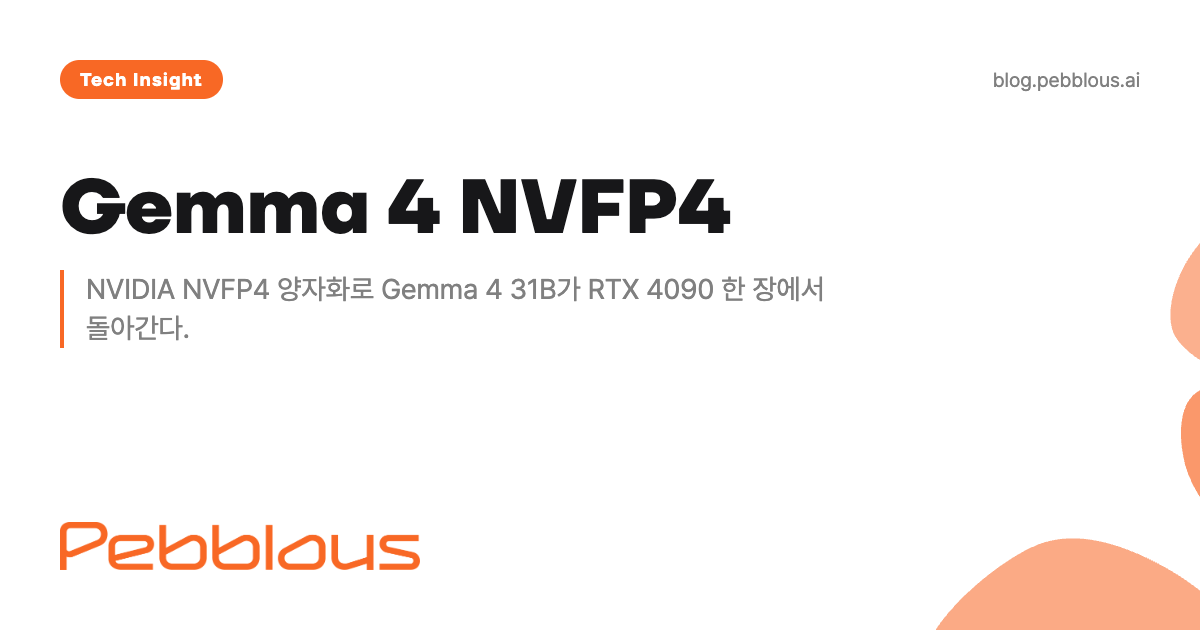
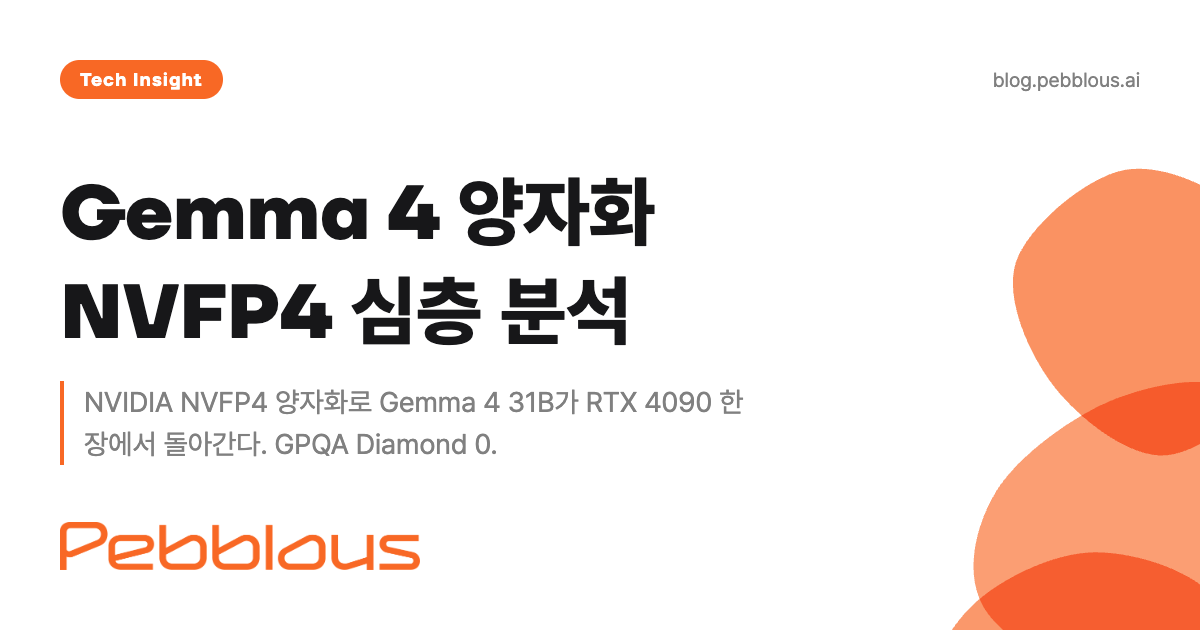
chore(titles): 제목·메타 일괄 교정 1건/2필드 (제목 검토 콘솔)\n\n- google-gemma-4-nvfp4-report-pb:\n    제목: Gemma 4 31B, 24GB GPU에서 돌아간다 — NVIDIA NVFP4 양자화 심층 분석 → Gemma 4 31B, 24GB GPU에서 돌아간다\n    OG 이미지 제목: Gemma 4 NVFP4 → Gemma 4 양자화 NVFP4 심층 분석

diff --git a/story/google-gemma-4-nvfp4-report-pb/ko/index.html b/story/google-gemma-4-nvfp4-report-pb/ko/index.html
@@ -9,7 +9,7 @@
     <meta name="copyright" content="© 2026 Pebblous. All rights reserved.">
     <meta name="robots" content="index, follow">
 
-    <title>Gemma 4 31B, 24GB GPU에서 돌아간다 — NVIDIA NVFP4 양자화 심층 분석 | 페블러스</title>
+    <title>Gemma 4 31B, 24GB GPU에서 돌아간다 | 페블러스</title>
     <meta name="description" content="NVIDIA가 NVFP4로 양자화한 Gemma 4 31B — GPQA Diamond 정확도 손실 0.25%, 256K 컨텍스트 유지, RTX 4090 한 장으로 프론티어급 추론. 4-bit 블록 스케일링 구조와 VRAM 현실을 심층 분석한다.">
     <meta name="keywords" content="Gemma 4, NVFP4, 양자화, NVIDIA, 로컬 AI, 소버린 AI, vLLM, Blackwell, RTX 4090, 오픈소스 LLM">
 
@@ -19,8 +19,8 @@
     <link rel="alternate" hreflang="x-default" href="https://blog.pebblous.ai/story/google-gemma-4-nvfp4-report-pb/ko/">
 
     <!-- Open Graph -->
-    <meta name="og-image-title" content="Gemma 4 NVFP4">
-    <meta property="og:title" content="Gemma 4 31B, 24GB GPU에서 돌아간다 — NVIDIA NVFP4 양자화 심층 분석">
+    <meta name="og-image-title" content="Gemma 4 양자화 NVFP4 심층 분석">
+    <meta property="og:title" content="Gemma 4 31B, 24GB GPU에서 돌아간다">
     <meta property="og:description" content="NVIDIA NVFP4 양자화로 Gemma 4 31B가 RTX 4090 한 장에서 돌아간다. GPQA Diamond 0.25% 손실, 256K 컨텍스트 유지 — 소버린 AI 인프라의 하드웨어 문이 열렸다.">
     <meta property="og:type" content="article">
     <meta property="og:url" content="https://blog.pebblous.ai/story/google-gemma-4-nvfp4-report-pb/ko/">
@@ -34,7 +34,7 @@
 
     <!-- Twitter Card -->
     <meta name="twitter:card" content="summary_large_image">
-    <meta name="twitter:title" content="Gemma 4 31B, 24GB GPU에서 돌아간다 — NVIDIA NVFP4 양자화">
+    <meta name="twitter:title" content="Gemma 4 31B, 24GB GPU에서 돌아간다">
     <meta name="twitter:description" content="NVFP4 4-bit 양자화로 RTX 4090 한 장에서 프론티어급 추론. GPQA Diamond 0.25% 손실, 256K 컨텍스트 유지.">
     <meta name="twitter:image" content="https://blog.pebblous.ai/story/google-gemma-4-nvfp4-report-pb/ko/image/index.png">
     <meta name="twitter:image:alt" content="Gemma 4 31B NVFP4 양자화 분석">
@@ -475,7 +475,7 @@ vllm serve nvidia/Gemma-4-31B-IT-NVFP4 \
         PebblousPage.init({
             mainTitle: "Gemma 4 31B, 24GB GPU에서 돌아간다",
             subtitle: "NVIDIA NVFP4 양자화 심층 분석",
-            pageTitle: "Gemma 4 31B, 24GB GPU에서 돌아간다 — NVIDIA NVFP4 양자화 심층 분석 | 페블러스",
+            pageTitle: "Gemma 4 31B, 24GB GPU에서 돌아간다 | 페블러스",
             category: "tech",
             publishDate: "2026-04-05",
             publisher: "(주)페블러스 데이터 커뮤니케이션팀",
